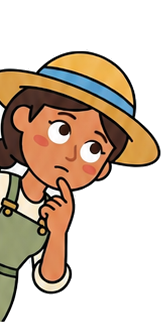
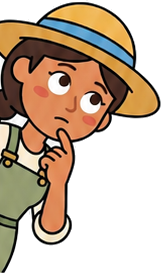
feat: updated onboarding step 3 layout, mascot cropped height percentage & speech bubble text size

diff --git a/src/screens/auth/OnboardingScreen.tsx b/src/screens/auth/OnboardingScreen.tsx
@@ -8,7 +8,7 @@ import { useAudioPlayer } from 'expo-audio';
 import Ionicons from '@expo/vector-icons/Ionicons';
 import { useLanguage } from '../../lib/LanguageContext';
 
-const { width } = Dimensions.get('window');
+const { width, height } = Dimensions.get('window');
 
 type RootStackParamList = {
   Onboarding: undefined;
@@ -22,7 +22,7 @@ const translations = {
   en: {
     chooseLangTitle: "Choose your language!",
     chooseLangSub: "Select a language to get started with Avani",
-    goalTitle: "What is your main farming goal?",
+    goalTitle: "What is your farming goal?",
     goalSub: "Help us customize your Avani experience",
     continue: "CONTINUE",
     goBack: "GO BACK",
@@ -560,7 +560,7 @@ export default function OnboardingScreen() {
 
                 const translateY = scrollX.interpolate({
                   inputRange,
-                  outputRange: [80, 32, 0, 32, 80],
+                  outputRange: [height * 0.12, height * 0.065, height * 0.03, height * 0.065, height * 0.12],
                   extrapolate: 'clamp',
                 });
 
@@ -630,12 +630,6 @@ export default function OnboardingScreen() {
                 );
               })}
             </Animated.ScrollView>
-            {/* Dot indicators */}
-            <View style={styles.dotRow}>
-              {GOAL_CARDS.map((c) => (
-                <View key={c.id} style={[styles.dot, selectedGoal === c.id && styles.dotActive]} />
-              ))}
-            </View>
           </View>
 
           {/* Footer Buttons */}
@@ -1060,11 +1054,16 @@ const styles = StyleSheet.create({
     zIndex: 1,
   },
   goalPeekingMascot: {
-    width: 65,
-    height: 80,
+    position: 'absolute',
+    left: 0,
+    top: -height * 0.025,
+    width: width * 0.32,
+    height: width * 0.32 * (273 / 161),
+    zIndex: 1,
   },
   goalSpeechBubbleRight: {
     flex: 1,
+    marginLeft: width * 0.31,
     backgroundColor: '#FFFFFF',
     borderRadius: 20,
     borderWidth: 2,
@@ -1076,6 +1075,7 @@ const styles = StyleSheet.create({
     shadowOpacity: 0.06,
     shadowRadius: 8,
     elevation: 3,
+    zIndex: 2,
   },
   goalBubbleArrowLeft: {
     position: 'absolute',
@@ -1114,24 +1114,23 @@ const styles = StyleSheet.create({
   },
   goalSpeechTitle: {
     fontFamily: 'System',
-    fontSize: 14,
+    fontSize: 12.5,
     fontWeight: '800',
     color: '#292524',
     marginBottom: 2,
   },
   goalSpeechSub: {
     fontFamily: 'System',
-    fontSize: 10.5,
+    fontSize: 9.5,
     color: '#78716C',
     fontWeight: '600',
-    lineHeight: 14,
+    lineHeight: 13,
   },
   /* --- Swipeable Focus Card Carousel --- */
   carouselSection: {
-    height: 280,
+    flex: 1,
     justifyContent: 'center',
     width: '100%',
-    marginVertical: 10,
     zIndex: 10,
   },
   carouselScrollView: {
@@ -1217,30 +1216,5 @@ const styles = StyleSheet.create({
     backgroundColor: '#6B8F5E',
     width: 24,
     borderRadius: 4,
-  },
-  goalPeekingMascot: {
-    position: 'absolute',
-    top: -24, // Shifted higher up
-    left: 0,
-    width: width * 0.35, // Balanced peeking size for Aava (without empty space)
-    height: width * 0.35 * (325 / 165), // Ratio of cropped avatar_peeking (165x325)
-    zIndex: 1, // Sits above background but below interaction elements
-  },
-  goalSpeechBubbleRight: {
-    position: 'absolute',
-    top: 50, // Horizontally aligned with the cyan band in her hat
-    right: 16,
-    width: width * 0.54, // Sits on the right half of the screen
-    backgroundColor: '#FFFFFF',
-    borderRadius: 20,
-    borderWidth: 2,
-    borderColor: '#E5E7EB',
-    paddingHorizontal: 14,
-    paddingVertical: 12,
-    shadowColor: '#1C1917',
-    shadowOffset: { width: 0, height: 3 },
-    shadowOpacity: 0.06,
-    shadowRadius: 8,
-    elevation: 3,
   },
 });
